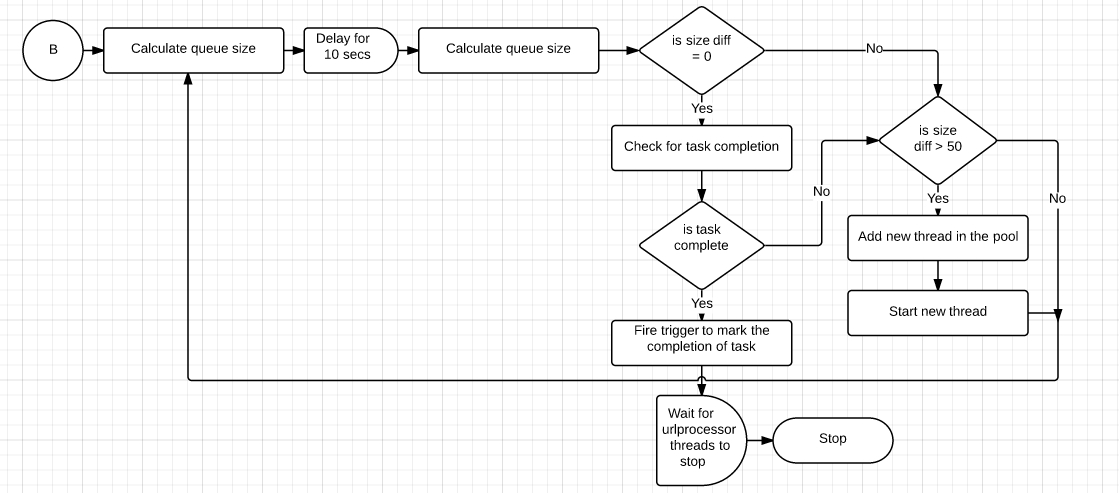
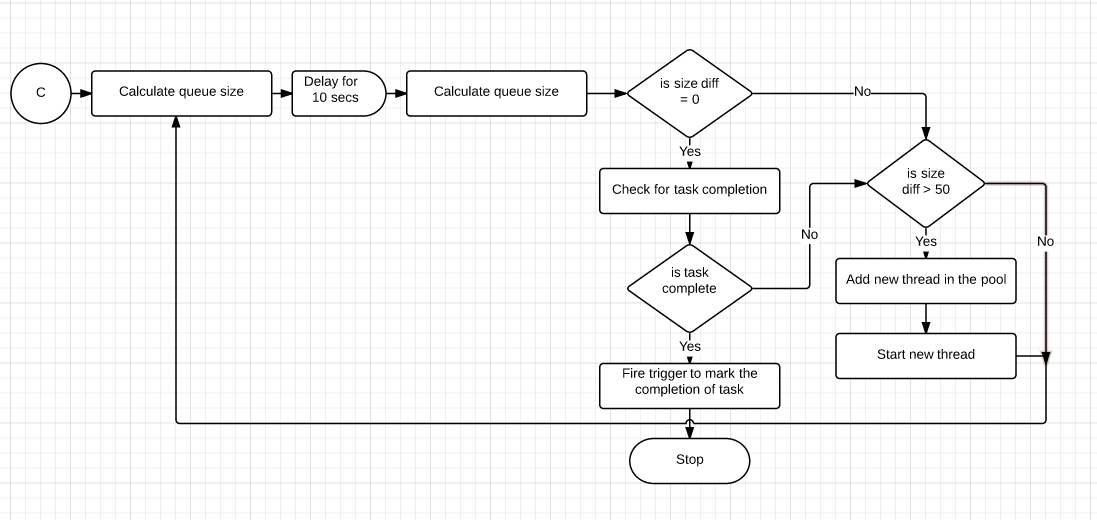
1. Added new class and flow diagrams. 2. Modified README.md

diff --git a/README.md b/README.md
@@ -7,6 +7,7 @@ A simple generic web crawler to download emails from a website.
 * A page is identified as an email on the basis of filter (A page should contain "From", "Date" and "Subject" for it to be considered as an email.)
 * Emails are downloaded in user provided path.
 * If a page is redirected to another domain or outside of parent location, that page is not picked up for crawling.
+* Program can survive internet connection loss and can resume from last run.
 
 
 ## How to crawl
@@ -23,6 +24,8 @@ A simple generic web crawler to download emails from a website.
 	## Input
 	* base.URL = URL to download emails.
 	* download.directory = Directory path to save emails.
+	* recovery.dir = Directory name to save backup files to recover from internet connection loss and resume from last run.
+	
 	
 	## Thread
 	* min.threads = minimum number of threads.
@@ -43,11 +46,23 @@ A simple generic web crawler to download emails from a website.
 
 ![alt text](https://github.com/vishals79/web-crawler/blob/master/etc/main-flow.jpg "Main Flow")
 
-### URLProcessor Flow
+### URLProcessor Manager Flow
 
-![alt text](https://github.com/vishals79/web-crawler/blob/master/etc/url-processor.jpg "URL Processor")
+![alt text](https://github.com/vishals79/web-crawler/blob/master/etc/url-processor-manager.jpg "URL Processor Manager")
+
+### URLProcessor Worker Flow
+
+![alt text](https://github.com/vishals79/web-crawler/blob/master/etc/url-processor-worker.jpg "URL Processor Worker")
 
 ### Invigilator Flow
 
 ![alt text](https://github.com/vishals79/web-crawler/blob/master/etc/invigilator.jpg "Invigilator")
+
+### Recovery Manager Flow
+
+![alt text](https://github.com/vishals79/web-crawler/blob/master/etc/recovery-manager.jpg "Recovery Manager")
+
+### Recovery Worker Flow
+
+![alt text](https://github.com/vishals79/web-crawler/blob/master/etc/recovery-worker.jpg "Recovery Worker")
 
